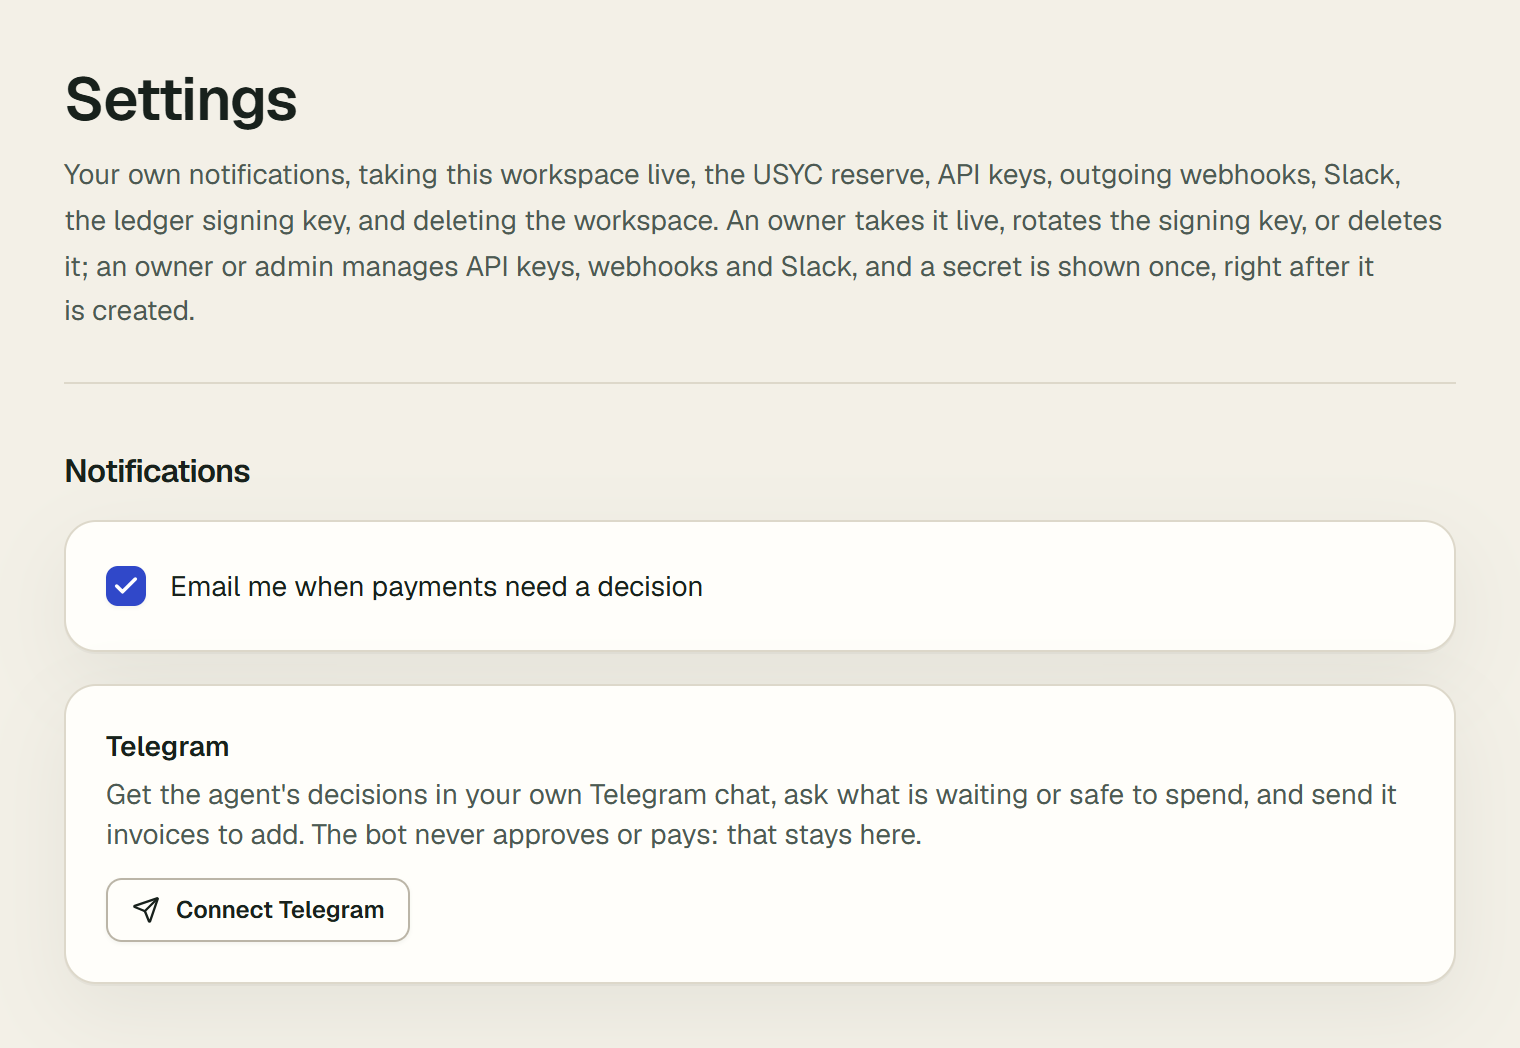
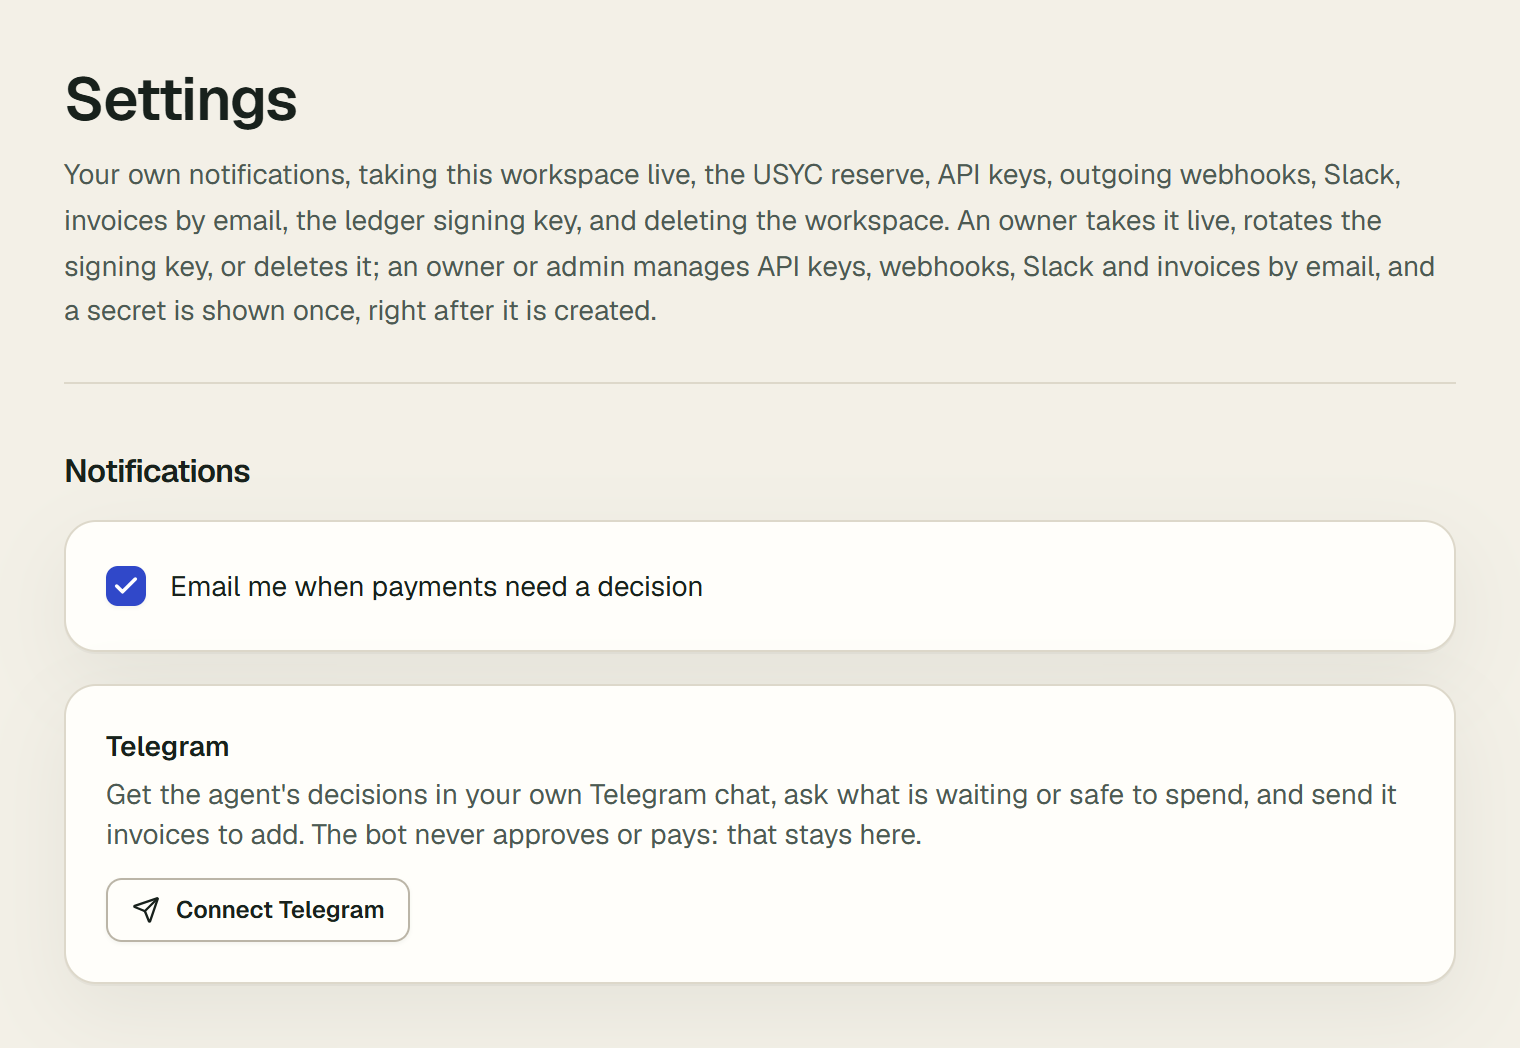
Document invoices by email: a guide, two screenshots, the changelog and the privacy page
The guide quotes the app's own text, held to it by the docs-guides test.
Settings' line names invoices by email, and its screenshots are taken again.
The receive test signs with the handler's own clock, so it does not depend on
the time it runs.

Changed region(s): [[0.0309, 0.1832, 0.9586, 0.3053]]

diff --git a/src/app/docs-shots/shots.tsx b/src/app/docs-shots/shots.tsx
@@ -4,7 +4,9 @@ import type { ReactNode } from "react";
 import { AgentBudgetPanel } from "@/components/AgentBudgetPanel";
 import ApprovalCard from "@/components/ApprovalCard";
 import { CounterpartyRow as CounterpartyRowView } from "@/components/CounterpartyRow";
+import EmailInboxPanel from "@/components/EmailInboxPanel";
 import GoLivePanel from "@/components/GoLivePanel";
+import InboxEmails from "@/components/InboxEmails";
 import NotificationsPanel from "@/components/NotificationsPanel";
 import { HeldMilestoneActions } from "@/components/HeldMilestoneActions";
 import { PayLinkControl } from "@/components/PayLinkControl";
@@ -59,7 +61,7 @@ import { DESIGN_SLUG, LEDGER } from "../design/fixtures";
 
 export interface DocsShot {
   /** The guide the picture belongs to. */
-  guide: "go-live" | "first-payment" | "pay-a-contractor" | "get-paid" | "telegram" | "slack";
+  guide: "go-live" | "first-payment" | "pay-a-contractor" | "get-paid" | "telegram" | "slack" | "email-invoices";
   /** The workspace page it is on: its title heads the frame. None for a public page, such as a payee's link. */
   page?: NavKey;
   /** The page's line under its title, where the real page has one. */
@@ -73,7 +75,7 @@ const SLUG = DESIGN_SLUG;
 
 /** Settings' line under its title, as the page has it. */
 const SETTINGS_SUB =
-  "Your own notifications, taking this workspace live, the USYC reserve, API keys, outgoing webhooks, Slack, the ledger signing key, and deleting the workspace. An owner takes it live, rotates the signing key, or deletes it; an owner or admin manages API keys, webhooks and Slack, and a secret is shown once, right after it is created.";
+  "Your own notifications, taking this workspace live, the USYC reserve, API keys, outgoing webhooks, Slack, invoices by email, the ledger signing key, and deleting the workspace. An owner takes it live, rotates the signing key, or deletes it; an owner or admin manages API keys, webhooks, Slack and invoices by email, and a secret is shown once, right after it is created.";
 
 // ---------------------------------------------------------------------------
 // Go live
@@ -933,6 +935,38 @@ export const DOCS_SHOTS = {
         canManage
         canAdminister
         notice={null}
+      />
+    ),
+  },
+  "email-inbox-settings": {
+    guide: "email-invoices",
+    page: "settings",
+    sub: SETTINGS_SUB,
+    render: () => <EmailInboxPanel orgSlug={SLUG} view={{ on: true, address: "invoices-k3mq2x7abdef@inbound.vestiarion.xyz" }} canManage />,
+  },
+  "email-inbox-ap": {
+    guide: "email-invoices",
+    page: "invoices",
+    sub: "Three-way match, counterparty risk, and payment authority — with the agent’s complete reasoning on every line.",
+    render: () => (
+      <InboxEmails
+        orgSlug={SLUG}
+        canAdd
+        emails={[
+          {
+            id: "00000000-0000-4000-8000-0000000000e1",
+            from: "Northwind Billing <billing@northwind.example>",
+            subject: "Invoice INV-2207",
+            receivedAt: "2026-10-03T16:00:00Z",
+            status: "ready",
+            reasons: [],
+            authentication: { spf: "pass", dkim: "pass", dmarc: "pass" },
+            read: {
+              counterpartyName: "Northwind Hosting", vendorName: "Northwind Hosting", amount: "200.00", currency: "USDC", dueDate: "2026-10-31",
+              poReference: "PO-1042", invoiceNumber: "INV-2207", memo: null, warnings: [], modelNote: null, reader: "deepseek", knownSender: true,
+            },
+          },
+        ]}
       />
     ),
   },

diff --git a/tests/docs-guides.test.ts b/tests/docs-guides.test.ts
@@ -20,6 +20,7 @@ type GuideSlug =
   | "guides/get-paid"
   | "guides/telegram"
   | "guides/slack"
+  | "guides/email-invoices"
   | "guides/api-invoices"
   | "guides/api-milestones"
   | "guides/audit-export";
@@ -111,6 +112,12 @@ const SLACK_INSTALLS = "src/lib/slack/installs.ts";
 const SLACK_LINKS = "src/lib/slack/links.ts";
 const SLACK_SETTINGS = "src/lib/slack/settings.ts";
 const CHAT_DECISIONS = "src/lib/commands/chat-decisions.ts";
+const INBOX_PANEL = "src/components/EmailInboxPanel.tsx";
+const INBOX_EMAILS = "src/components/InboxEmails.tsx";
+const INBOX_LIBRARY = "src/lib/email-inbox/inboxes.ts";
+const INBOX_RECEIVE = "src/lib/email-inbox/receive.ts";
+const INBOX_COMMANDS = "src/lib/commands/inbox.ts";
+const INBOX_SETTINGS = "src/lib/email-inbox/settings.ts";
 
 /** Each guide's quoted UI strings, as `[text, the file it must appear in]`. */
 const QUOTED: Record<GuideSlug, Array<readonly [string, string]>> = {
@@ -545,6 +552,33 @@ const QUOTED: Record<GuideSlug, Array<readonly [string, string]>> = {
     ['via: "telegram"', "src/lib/commands/invoices.ts"],
     ["Commands and invoices now go to", TELEGRAM_UPDATES],
   ],
+  "guides/email-invoices": [
+    ["Settings", APP_NAV],
+    ["AP / AR", APP_NAV],
+    ["From a document", INVOICES_PAGE],
+    ["Invoices by email", INBOX_PANEL],
+    ["Turn on", INBOX_PANEL],
+    ["Copy the address", INBOX_PANEL],
+    ["New address", INBOX_PANEL],
+    ["Turn off", INBOX_PANEL],
+    ["An owner or admin has the address", INBOX_PANEL],
+    ["invoice_inbox_on", INBOX_LIBRARY],
+    ["invoice_inbox_changed", INBOX_LIBRARY],
+    ["invoice_inbox_off", INBOX_LIBRARY],
+    ["From email", INBOX_EMAILS],
+    ["Cannot be added as it was read", INBOX_EMAILS],
+    ["Could not be read", INBOX_EMAILS],
+    ["Add, goods received", INBOX_EMAILS],
+    ["Add, not received yet", INBOX_EMAILS],
+    ["Dismiss", INBOX_EMAILS],
+    ["Review in AP / AR", INBOX_RECEIVE],
+    ["invoice_email_received", INBOX_RECEIVE],
+    ["invoice_email_dismissed", INBOX_COMMANDS],
+    ["This email was already decided, or cannot be added as it was read.", INBOX_COMMANDS],
+    ["INBOUND_EMAIL_DOMAIN", INBOX_SETTINGS],
+    ["RESEND_INBOUND_WEBHOOK_SECRET", INBOX_SETTINGS],
+    ["RESEND_RECEIVING_API_KEY", INBOX_SETTINGS],
+  ],
   "guides/slack": [
     ["Settings", APP_NAV],
     ["Slack", SLACK_PANEL],
@@ -706,6 +740,7 @@ const MIN_QUOTED: Record<GuideSlug, number> = {
   "guides/get-paid": 20,
   "guides/telegram": 20,
   "guides/slack": 20,
+  "guides/email-invoices": 20,
   "guides/api-invoices": 10,
   "guides/api-milestones": 10,
   "guides/audit-export": 5,

diff --git a/src/lib/docs/nav.ts b/src/lib/docs/nav.ts
@@ -51,6 +51,7 @@ export const DOCS_NAV: NavSection[] = [
       { slug: "guides/pay-a-contractor", title: "Pay a contractor for delivered work", description: "Add a milestone, verify the work by hand or by a merged pull request, and let the agent release the pay." },
       { slug: "guides/get-paid", title: "Get paid as a freelancer", description: "For the person being paid: add your wallet address through the link a business sent, follow each step, and check the payment on Arc testnet." },
       { slug: "guides/telegram", title: "Get the agent's decisions in Telegram", description: "Connect your own Telegram chat to a workspace: the agent's decisions as it makes them, what is safe to spend and waiting, and invoices sent to the bot." },
+      { slug: "guides/email-invoices", title: "Add invoices by email", description: "Turn on a workspace address, forward suppliers' invoices to it, and add each one from AP / AR with one press; nothing arrives as a payable by itself." },
       { slug: "guides/slack", title: "Get the agent's decisions in Slack", description: "Connect a workspace to a Slack channel: the agent's decisions as it makes them, /vestiarion for what is safe to spend and waiting, and stopped payments decided from Slack when an owner allows it." },
       { slug: "guides/api-invoices", title: "Add invoices from your own system", description: "Create a read-and-write API key, add a counterparty and an invoice through the API, confirm the address, and follow the agent's decision." },
       { slug: "guides/api-milestones", title: "Pay for merged pull requests", description: "Add a contractor, a payee link and a milestone through the API, and the agent pays once the pull request is merged. With a GitHub Actions workflow." },

diff --git a/tests/email-inbox-receive.test.ts b/tests/email-inbox-receive.test.ts
@@ -39,6 +39,8 @@ const config = configFromEnv({
 const orgs = signedOrgs();
 const PDF = readFileSync(path.join(__dirname, "fixtures", "invoice-document", "northwind-inv-2207.pdf"));
 const HOOK = "https://hooks.slack.com/services/T0TEAM/B0HOOK/abcdefghijklmnopqrstuvwx";
+/** The handler's clock, which the signature's timestamp must be within five minutes of. */
+const NOW = new Date("2026-10-03T16:00:00Z");
 
 const email = (fields: Record<string, unknown> = {}) => ({
   object: "email",
@@ -56,7 +58,7 @@ const email = (fields: Record<string, unknown> = {}) => ({
 function signedEvent(payload: unknown, key: Buffer = KEY): Request {
   const body = JSON.stringify(payload);
   const id = `msg_${crypto.randomBytes(6).toString("hex")}`;
-  const at = String(Math.floor(Date.now() / 1000));
+  const at = String(Math.floor(NOW.getTime() / 1000));
   const signature = `v1,${crypto.createHmac("sha256", key).update(`${id}.${at}.${body}`).digest("base64")}`;
   return new Request("https://www.vestiarion.xyz/api/email/inbound", {
     method: "POST",
@@ -129,7 +131,7 @@ function world() {
         origin: "https://www.vestiarion.xyz",
         fetchImpl,
         defer: (work) => void deferred.push(runWith({ config, db: fake.client, fetch: fake.fetch }, work)),
-        now: () => new Date("2026-10-03T16:00:00Z"),
+        now: () => NOW,
       })
     );
     await Promise.all(deferred);

diff --git a/tests/docs-content.test.ts b/tests/docs-content.test.ts
@@ -158,6 +158,7 @@ describe("the docs navigation", () => {
       ["guides/pay-a-contractor", "Pay a contractor for delivered work"],
       ["guides/get-paid", "Get paid as a freelancer"],
       ["guides/telegram", "Get the agent's decisions in Telegram"],
+      ["guides/email-invoices", "Add invoices by email"],
       ["guides/slack", "Get the agent's decisions in Slack"],
       ["guides/api-invoices", "Add invoices from your own system"],
       ["guides/api-milestones", "Pay for merged pull requests"],
@@ -190,7 +191,8 @@ describe("the docs navigation", () => {
     expect(neighbours("guides/first-payment").next?.slug).toBe("guides/pay-a-contractor");
     expect(neighbours("guides/pay-a-contractor").next?.slug).toBe("guides/get-paid");
     expect(neighbours("guides/get-paid").next?.slug).toBe("guides/telegram");
-    expect(neighbours("guides/telegram").next?.slug).toBe("guides/slack");
+    expect(neighbours("guides/telegram").next?.slug).toBe("guides/email-invoices");
+    expect(neighbours("guides/email-invoices").next?.slug).toBe("guides/slack");
     expect(neighbours("guides/slack").next?.slug).toBe("guides/api-invoices");
     expect(neighbours("guides/api-invoices").next?.slug).toBe("guides/api-milestones");
     expect(neighbours("guides/api-milestones").next?.slug).toBe("guides/audit-export");

diff --git a/src/app/privacy/page.tsx b/src/app/privacy/page.tsx
@@ -190,6 +190,12 @@ export default function PrivacyPage() {
             keeps only the ids. A Slack username given to connect an account is kept until that request is used or expires, and cleared when the next one is made.
           </li>
           <li>
+            <strong>Resend</strong>, for a workspace that turns on invoices by email, receives the emails sent to its invoice address, as it
+            receives every email at that domain. The app reads each one the way it reads an invoice uploaded to the invoice form and keeps the
+            sender, the subject and what was read, with SPF, DKIM and DMARC as Resend reported them, until a person adds or dismisses it. The
+            document itself is not kept, only its hash; the ledger keeps the sender&apos;s address with most of its name hidden.
+          </li>
+          <li>
             <strong>OpenSanctions</strong>, when this deployment has it configured, receives the names and jurisdictions of a live workspace&apos;s
             counterparties to screen them. A sandbox, and any workspace on a deployment without it, checks names against a list built into the app and sends
             them nowhere.

diff --git a/src/app/o/[slug]/settings/page.tsx b/src/app/o/[slug]/settings/page.tsx
@@ -92,7 +92,7 @@ export default async function SettingsPage({
       <ProductShell day={dashboardStats.day} clockMode={dashboardStats.clockMode} lastCycleAt={dashboardStats.lastCycleAt} chainModes={chainModes()}>
         <PageHead
           title={sectionTitle("settings")}
-          sub="Your own notifications, taking this workspace live, the USYC reserve, API keys, outgoing webhooks, Slack, the ledger signing key, and deleting the workspace. An owner takes it live, rotates the signing key, or deletes it; an owner or admin manages API keys, webhooks and Slack, and a secret is shown once, right after it is created."
+          sub="Your own notifications, taking this workspace live, the USYC reserve, API keys, outgoing webhooks, Slack, invoices by email, the ledger signing key, and deleting the workspace. An owner takes it live, rotates the signing key, or deletes it; an owner or admin manages API keys, webhooks, Slack and invoices by email, and a secret is shown once, right after it is created."
         />
         <div className="space-y-12">
           <NotificationsPanel

diff --git a/src/lib/docs/content.ts b/src/lib/docs/content.ts
@@ -60,6 +60,7 @@ export const PAGE_LOADERS: Record<string, () => Promise<MdxModule>> = {
   "guides/pay-a-contractor": () => import("../../../content/docs/guides/pay-a-contractor.mdx"),
   "guides/get-paid": () => import("../../../content/docs/guides/get-paid.mdx"),
   "guides/telegram": () => import("../../../content/docs/guides/telegram.mdx"),
+  "guides/email-invoices": () => import("../../../content/docs/guides/email-invoices.mdx"),
   "guides/slack": () => import("../../../content/docs/guides/slack.mdx"),
   "guides/api-invoices": () => import("../../../content/docs/guides/api-invoices.mdx"),
   "guides/api-milestones": () => import("../../../content/docs/guides/api-milestones.mdx"),

diff --git a/tests/rls.test.ts b/tests/rls.test.ts
@@ -50,6 +50,7 @@ const CRUD_UPDATE: Record<string, { column: string; expr: string }> = {
   policy_proposals: { column: "reasoning", expr: "'changed'" },
   spending_limit_contracts: { column: "circle_contract_id", expr: "coalesce(circle_contract_id, '') || '-changed'" },
   ar_reminders: { column: "tone", expr: "'firm'" },
+  inbox_emails: { column: "status", expr: "'dismissed'" },
 };
 
 beforeAll(async () => {

diff --git a/ARCHITECTURE.md b/ARCHITECTURE.md
@@ -503,6 +503,27 @@ too); a draft is held for an hour (`slack_drafts`, gone with its link) and
 answered to that member alone, and its **Add** runs `addInvoice` as them, for
 an owner or admin, whose entry names `via: "slack"` and the link.
 
+**Invoices can arrive by email**
+(docs/superpowers/specs/2026-10-03-email-invoices-design.md). Resend receives
+at the inbound domain (`INBOUND_EMAIL_DOMAIN`: Resend's managed
+`<id>.resend.app`, or a subdomain with its MX record); a workspace's address is
+`invoices-<code>@<domain>`, the code 12 random base32 characters kept in
+`invoice_inboxes` (migration `0068`, platform), which an owner or admin turns
+on, replaces or turns off from Settings (`integrations.manage`), recorded
+without the address. `POST /api/email/inbound` checks Resend's Svix signature
+over the raw body before anything is read (`src/lib/email-inbox/verify.ts`),
+routes the email to the first recipient whose code is an inbox's, stores it at
+once in `inbox_emails` (tenant rows, one per Resend email, so a redelivery
+stores nothing new), answers 200, and reads it in `after()`
+(`src/lib/email-inbox/receive.ts`): the email and its first PDF, `.eml` or
+`.txt` attachment from Resend's receiving API (the download only from Resend's
+hosts), else its text, through the same `readInvoiceDraft` and the shared draft
+rule. The row ends `ready`, `needs_details` or `unreadable`, with reasons a
+person reads; the workspace's Slack channel is told. Nothing is added by
+itself: on AP / AR an owner or admin runs `inbox.add` (the draft used once, put
+back if the invoice cannot be added; `create_invoice` names `via: "email"` and
+`inboxEmailId`) or `inbox.dismiss`.
+
 ## API
 
 The versioned API boundary lives under `src/app/api/v1/`:

diff --git a/README.md b/README.md
@@ -118,6 +118,11 @@ is hard-coded into the interface:
    admin also adds an invoice from a message, with **Add invoice**: read as **From a
    document** reads one, and added with one press (`src/lib/slack/`,
    [guide](https://www.vestiarion.xyz/docs/guides/slack)).
+9. **Invoices by email** — an owner or admin turns on a workspace address in **Settings**; an
+   invoice forwarded there is read as **From a document** reads one, and waits on **AP / AR** for a
+   person to add it with one press, or dismiss it. Nothing that arrives by email is added or paid by
+   itself; the sender's SPF/DKIM/DMARC results are shown, never trusted
+   (`src/lib/email-inbox/`, [guide](https://www.vestiarion.xyz/docs/guides/email-invoices)).
 
 Every decision is made by asking an LLM for a structured `{action, reasoning, confidence}` verdict
 under an explicit guardrail policy (never pay a high-risk counterparty, never exceed a payment

diff --git a/docs/superpowers/specs/2026-10-03-email-invoices-design.md b/docs/superpowers/specs/2026-10-03-email-invoices-design.md
@@ -1,6 +1,6 @@
 # Invoices by email: a workspace address that turns a forwarded invoice into a draft a person adds
 
-Date: 2026-10-03. Status: designed on `feat/email-invoices`. Roadmap row INT1b; integrations design §9 (email-in after
+Date: 2026-10-03. Status: implemented on `feat/email-invoices`. Roadmap row INT1b; integrations design §9 (email-in after
 Slack). Decided under the standing autonomy grant; the partner said "ok tiếp đi" to the proposal.
 
 ## 1. The problem
